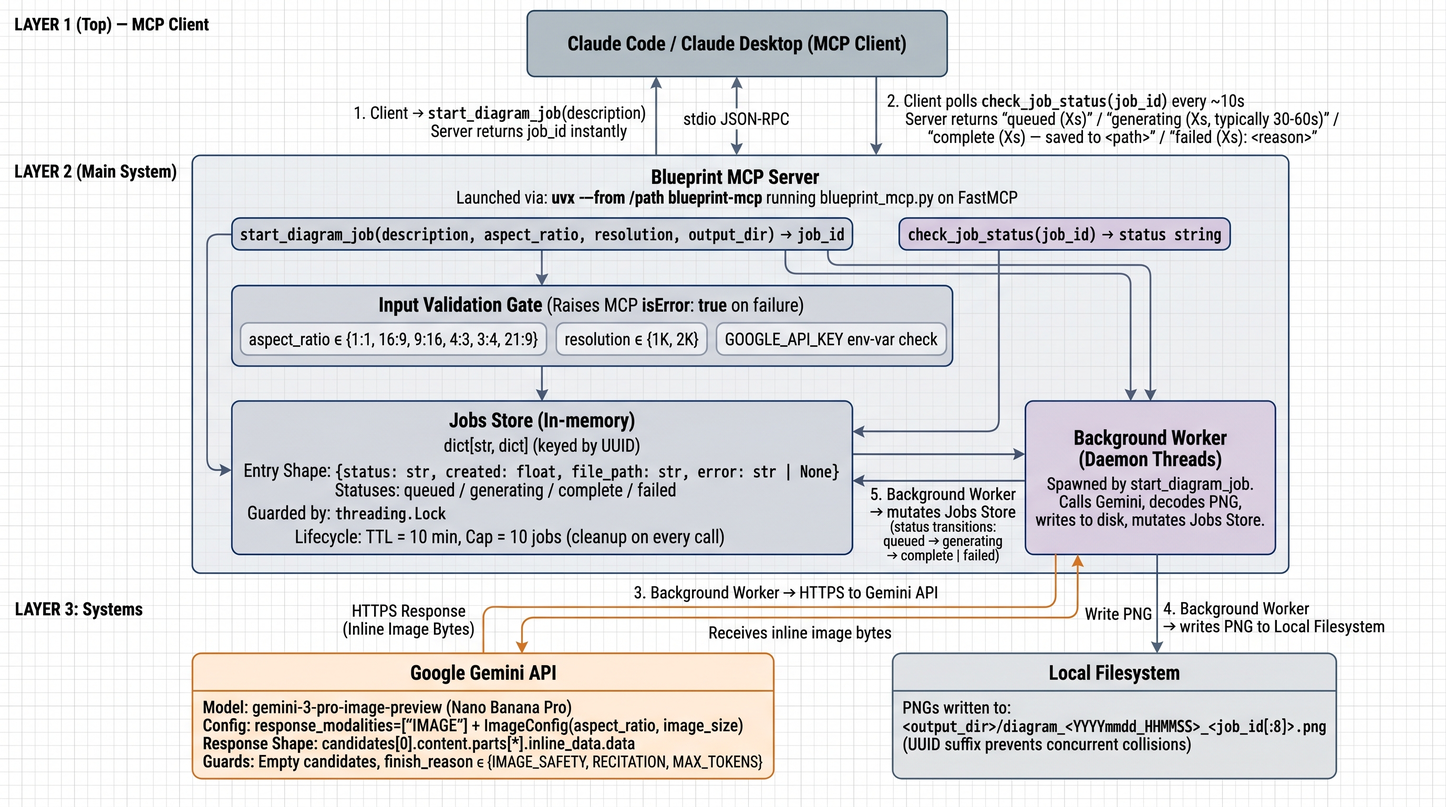
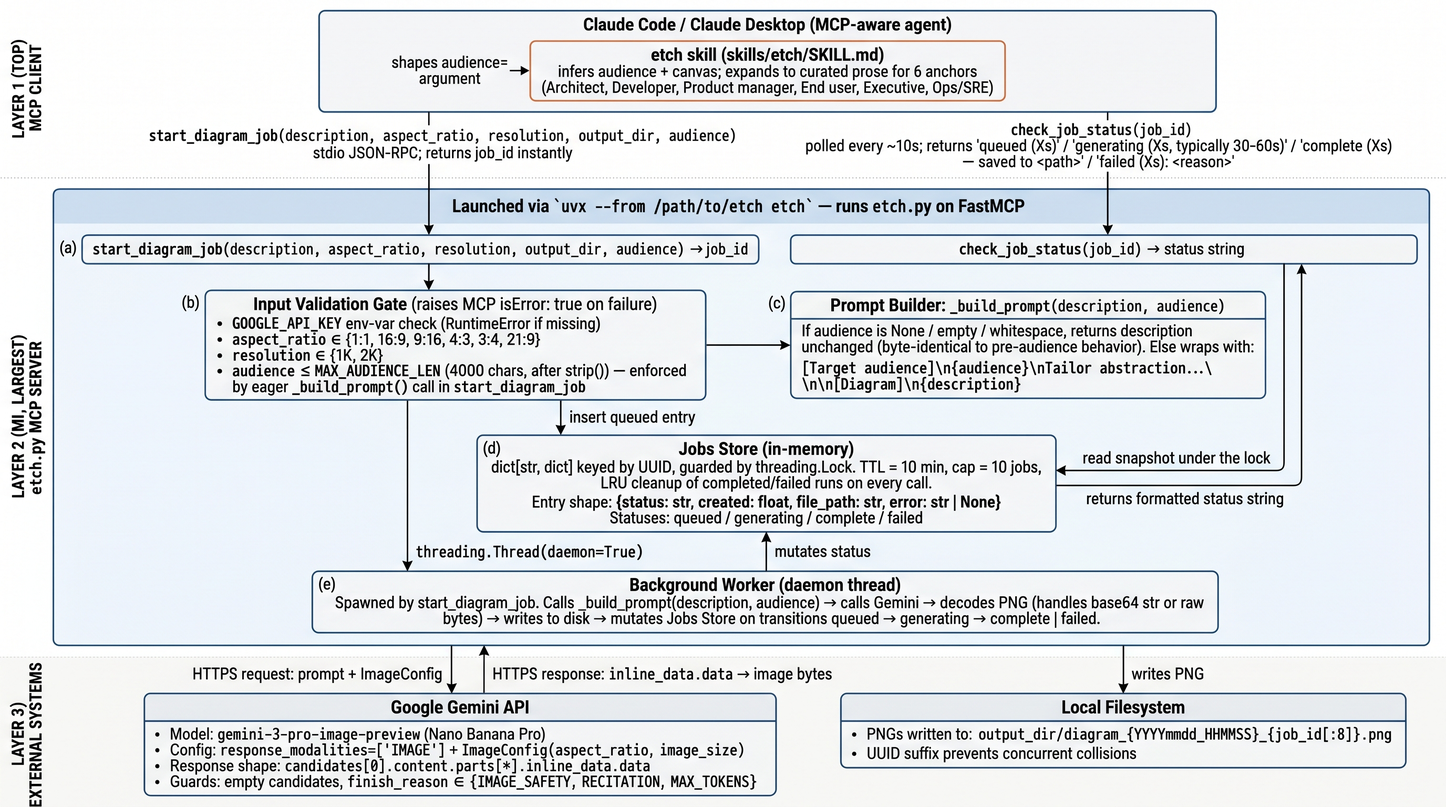
docs(how-it-works): regenerate architecture diagram in line with current code
Old diagram was stale on multiple counts: project named 'blueprint',
missing audience parameter, missing audience length cap, missing
_build_prompt helper, and skill component was not represented.

Regenerated with the developer audience anchor — three layers
(MCP client + skill / etch.py server / external systems), correct
function signatures, all current validation rules, and the prompt
builder explicitly shown.

Also removed the trailing design/plan-doc link line per user feedback —
readers can navigate the repo if they want depth.

diff --git a/how-it-works.md b/how-it-works.md
@@ -5,5 +5,3 @@
 Under the hood, etch is a thin MCP server wrapping Google's Gemini 3 Pro Image (Nano Banana Pro). When your agent calls `start_diagram_job`, the server kicks off generation on a background thread, returns a `job_id` immediately, and lets the agent poll `check_job_status` until the PNG lands on disk. The async split exists so MCP tool-call timeouts don't bite — generation typically runs 30–60 seconds.
 
 The audience-aware part lives in the skill at `skills/etch/SKILL.md`, not in the server. The skill reads the conversation, picks an audience (architect, developer, product manager, end user, executive, ops/SRE — or anything else describable), picks the canvas shape, and expands the choice into a curated prose block. That prose flows into the MCP via the `audience` parameter, which the server wraps with a small frame and forwards to the model verbatim. The server itself has no per-audience opinions; the skill carries them all. Different clients (or future skills with a different audience model) can call the same server without buying into this one.
-
-For the full design rationale, see [`docs/specs/2026-05-04-audience-aware-etch-design.md`](docs/specs/2026-05-04-audience-aware-etch-design.md). For the implementation plan that built it, see [`docs/plans/2026-05-04-audience-aware-etch.md`](docs/plans/2026-05-04-audience-aware-etch.md).
